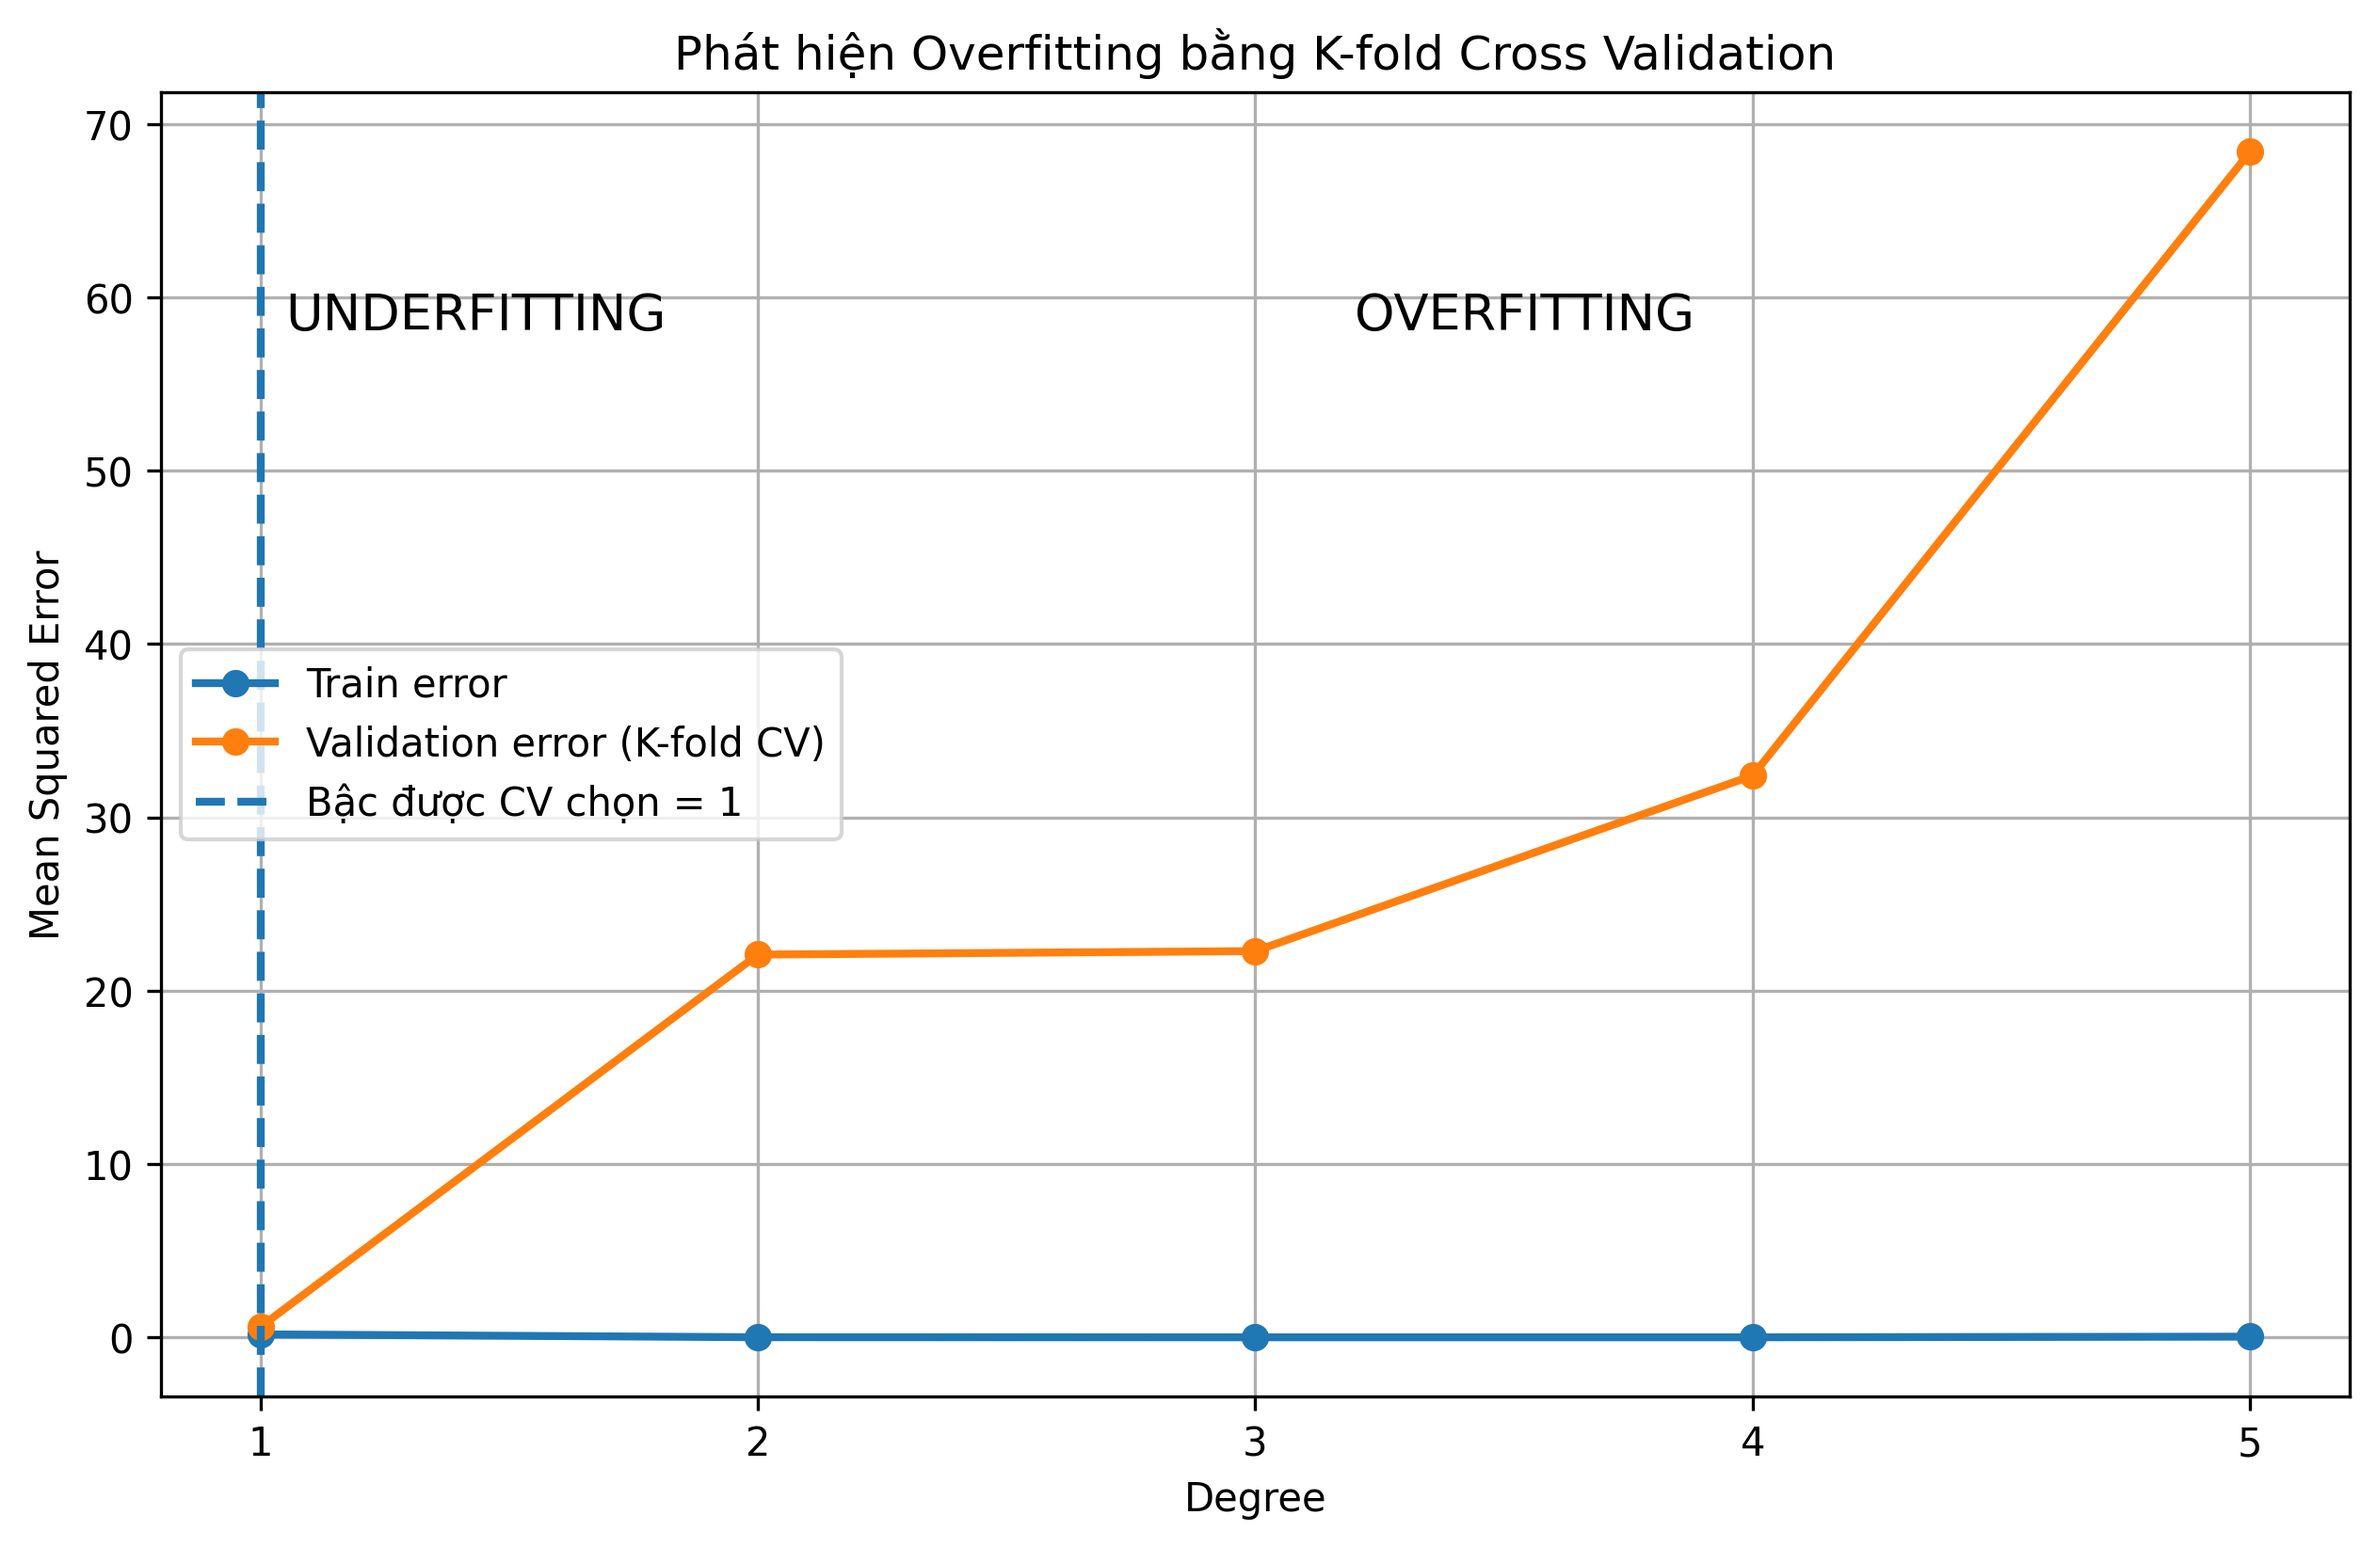
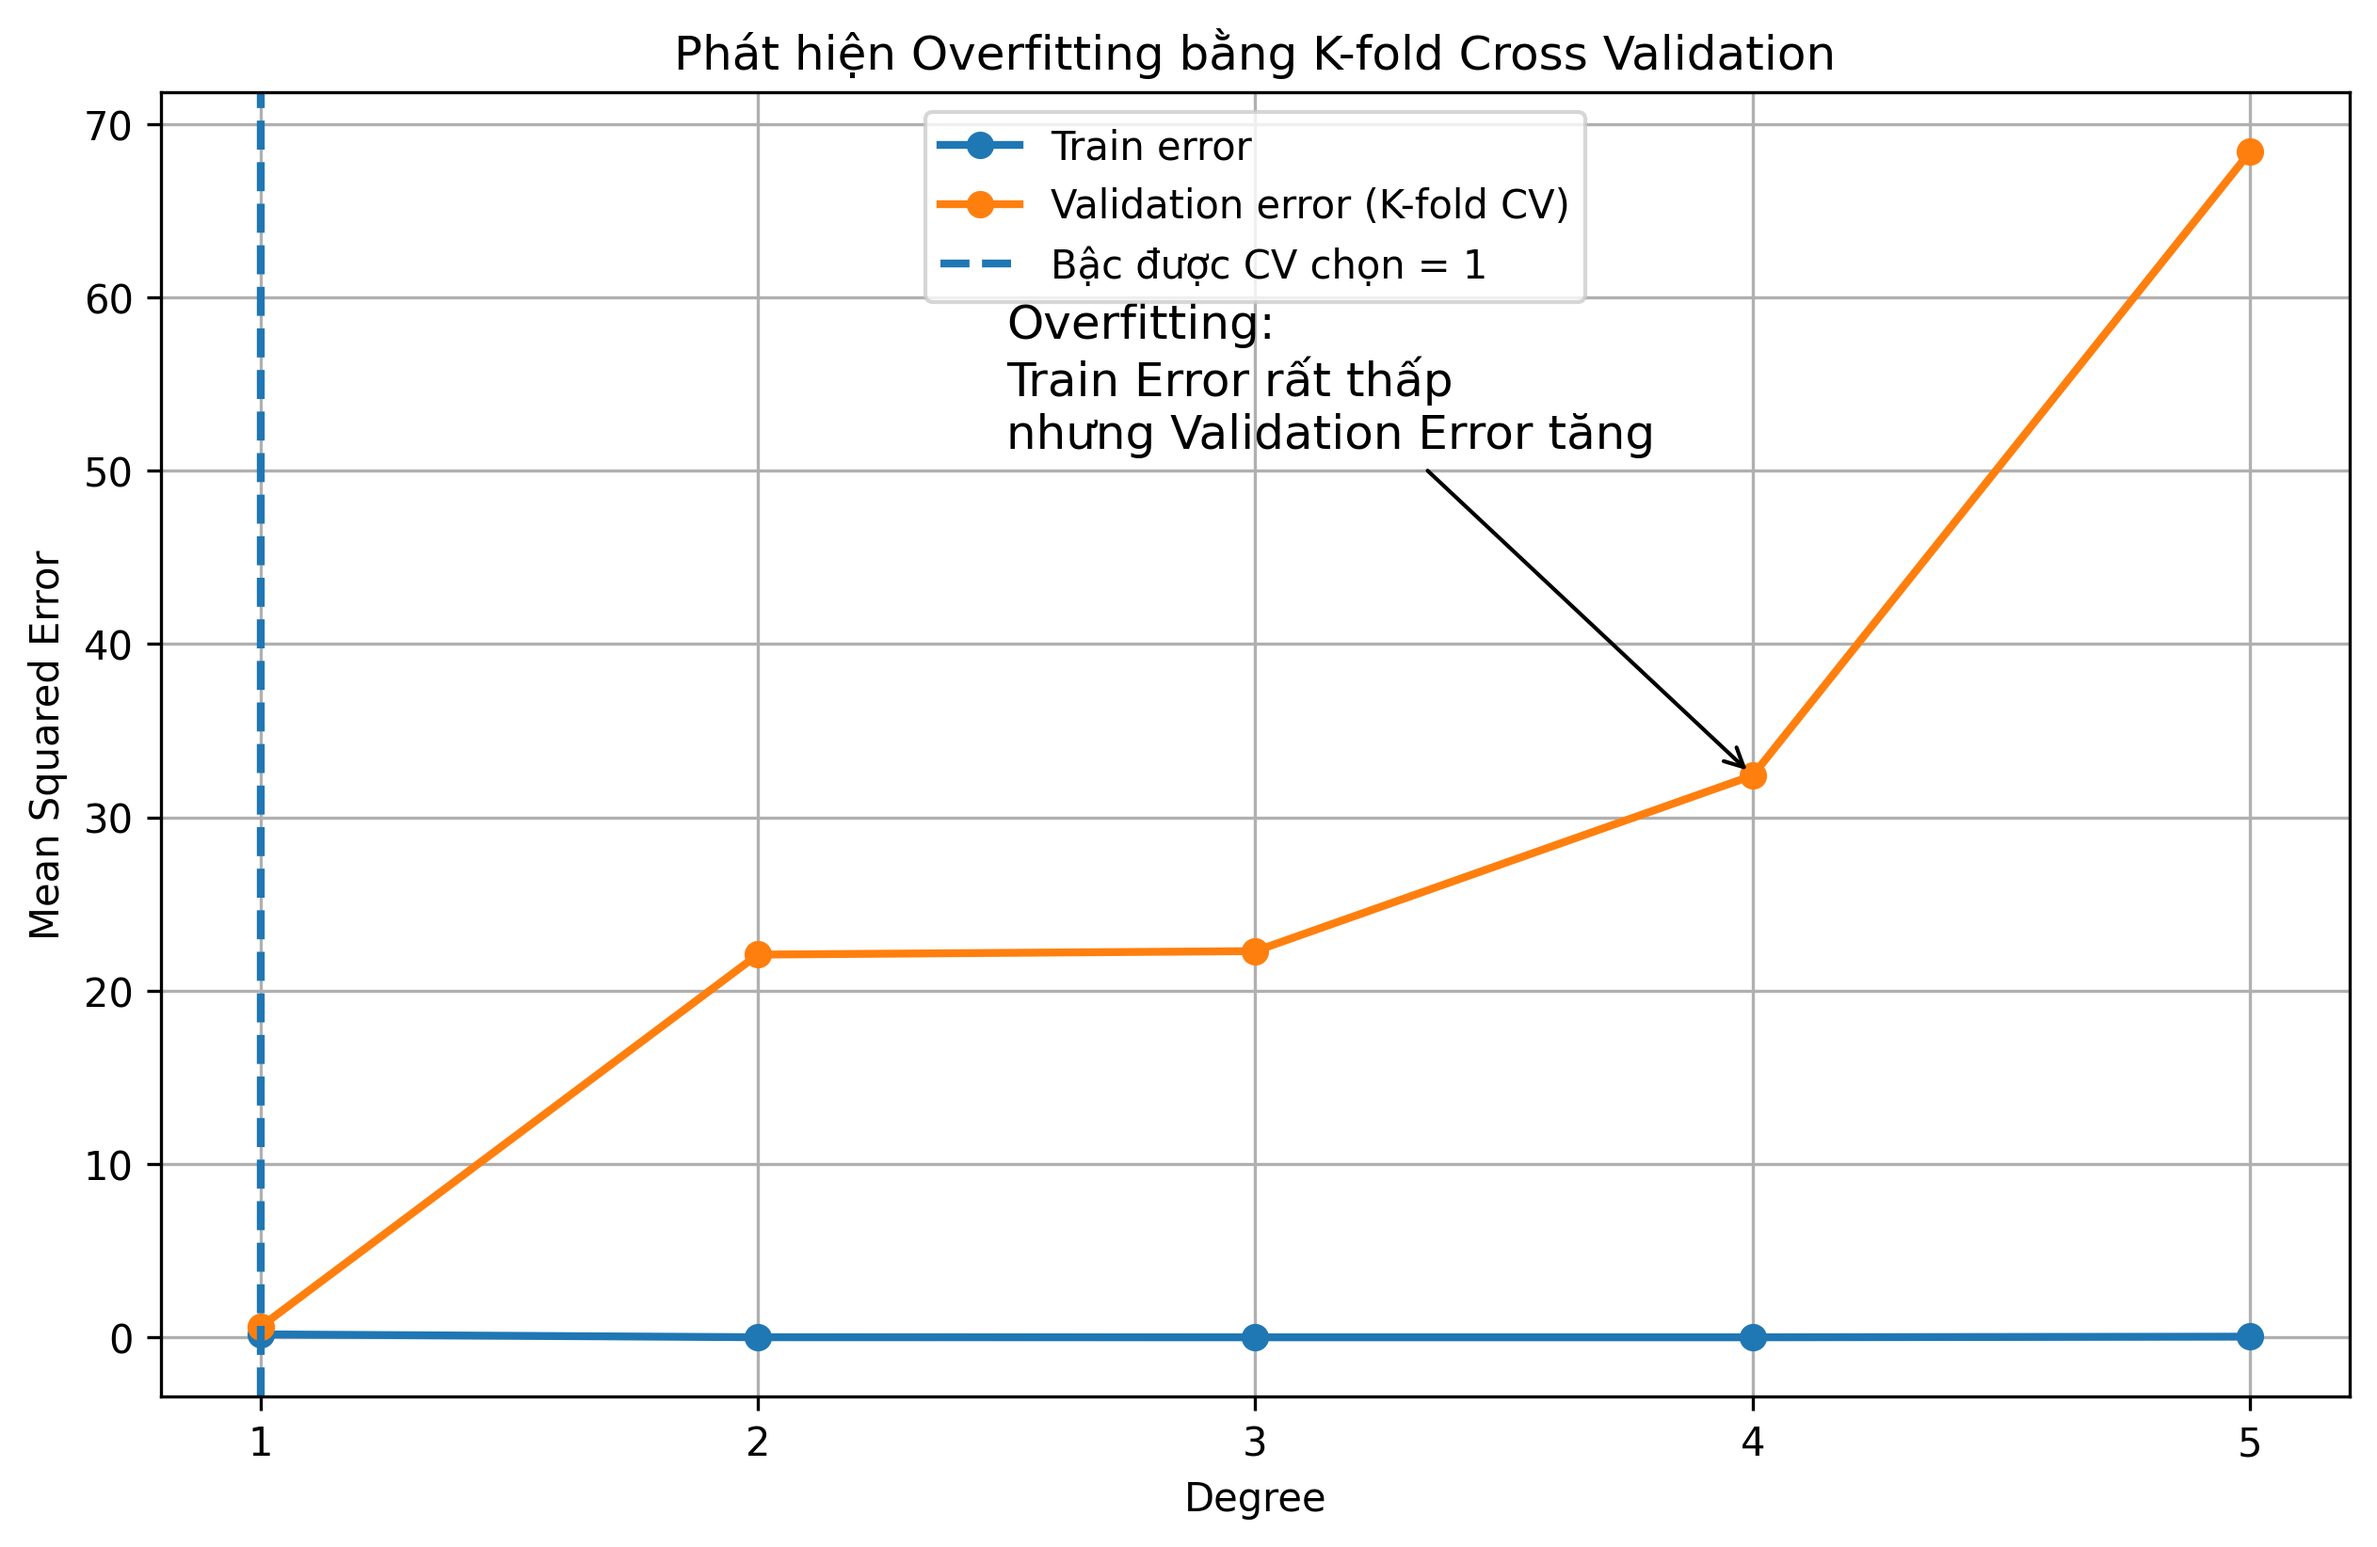
update btvn14_9

diff --git a/btvn14_9.py b/btvn14_9.py
@@ -167,23 +167,17 @@ plt.axvline(
 
 
 # ==========================================
-# 8. GHI UNDERFITTING / OVERFITTING
+# 8. GHI CHÚ VÙNG OVERFITTING
 # ==========================================
 
 y_max = max(cv_errors)
 
-plt.text(
-    1.05,
-    y_max * 0.85,
-    "UNDERFITTING",
-    fontsize=13
-)
-
-plt.text(
-    3.2,
-    y_max * 0.85,
-    "OVERFITTING",
-    fontsize=13
+plt.annotate(
+    "Overfitting:\nTrain Error rất thấp\nnhưng Validation Error tăng",
+    xy=(4, cv_errors[3]),
+    xytext=(2.5, y_max * 0.75),
+    arrowprops=dict(arrowstyle="->"),
+    fontsize=12
 )
 
 
